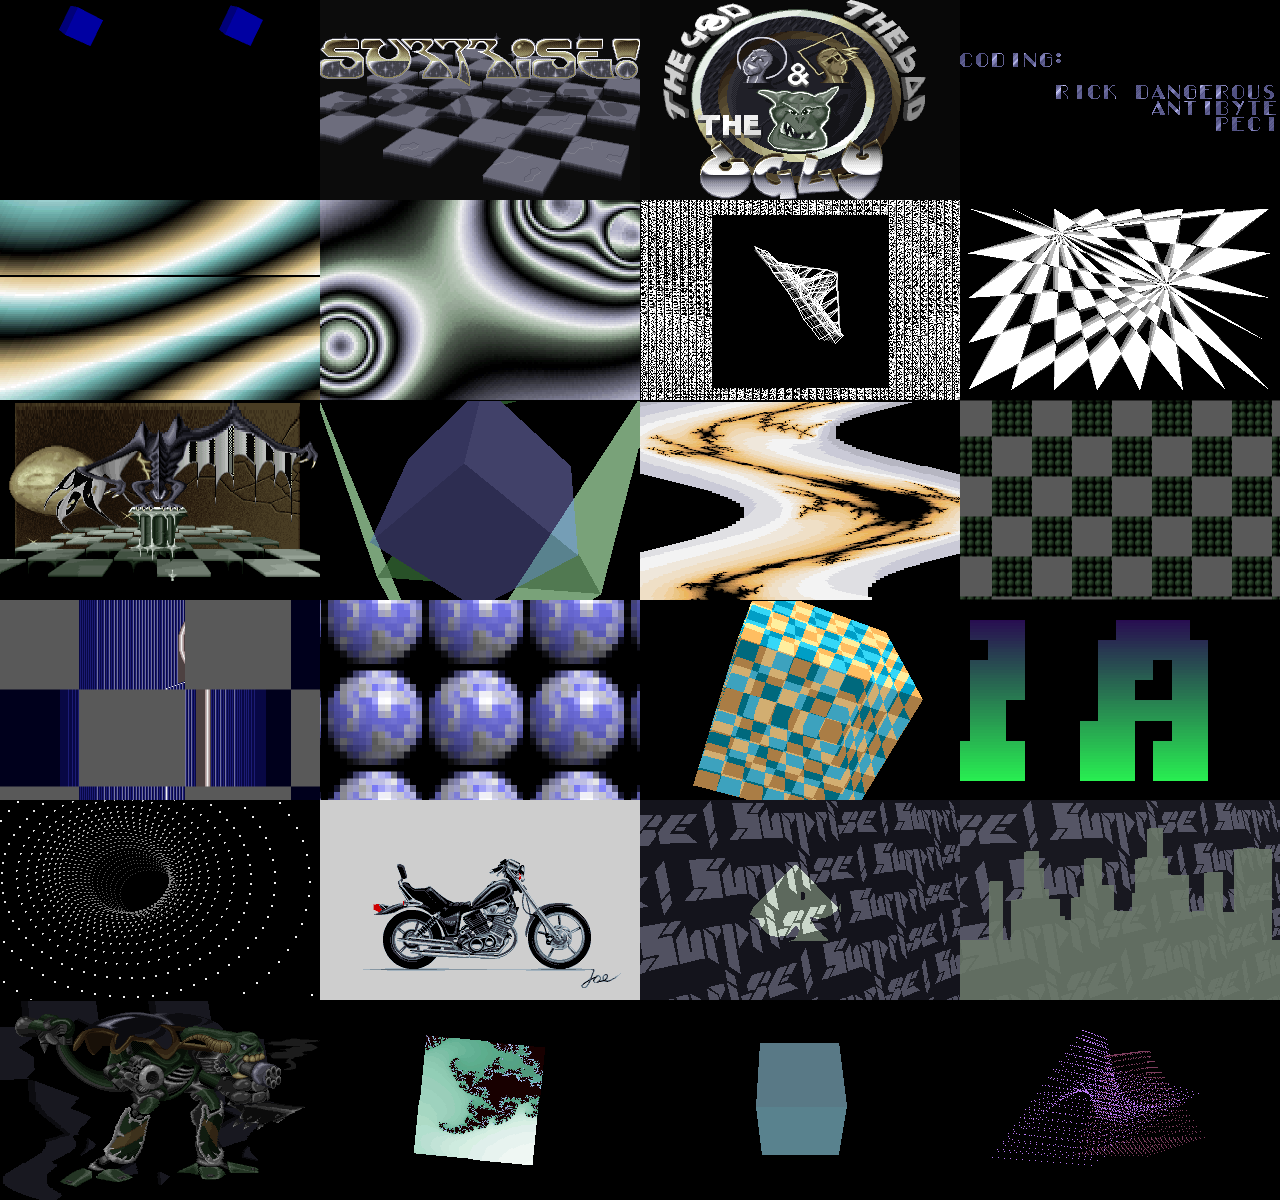
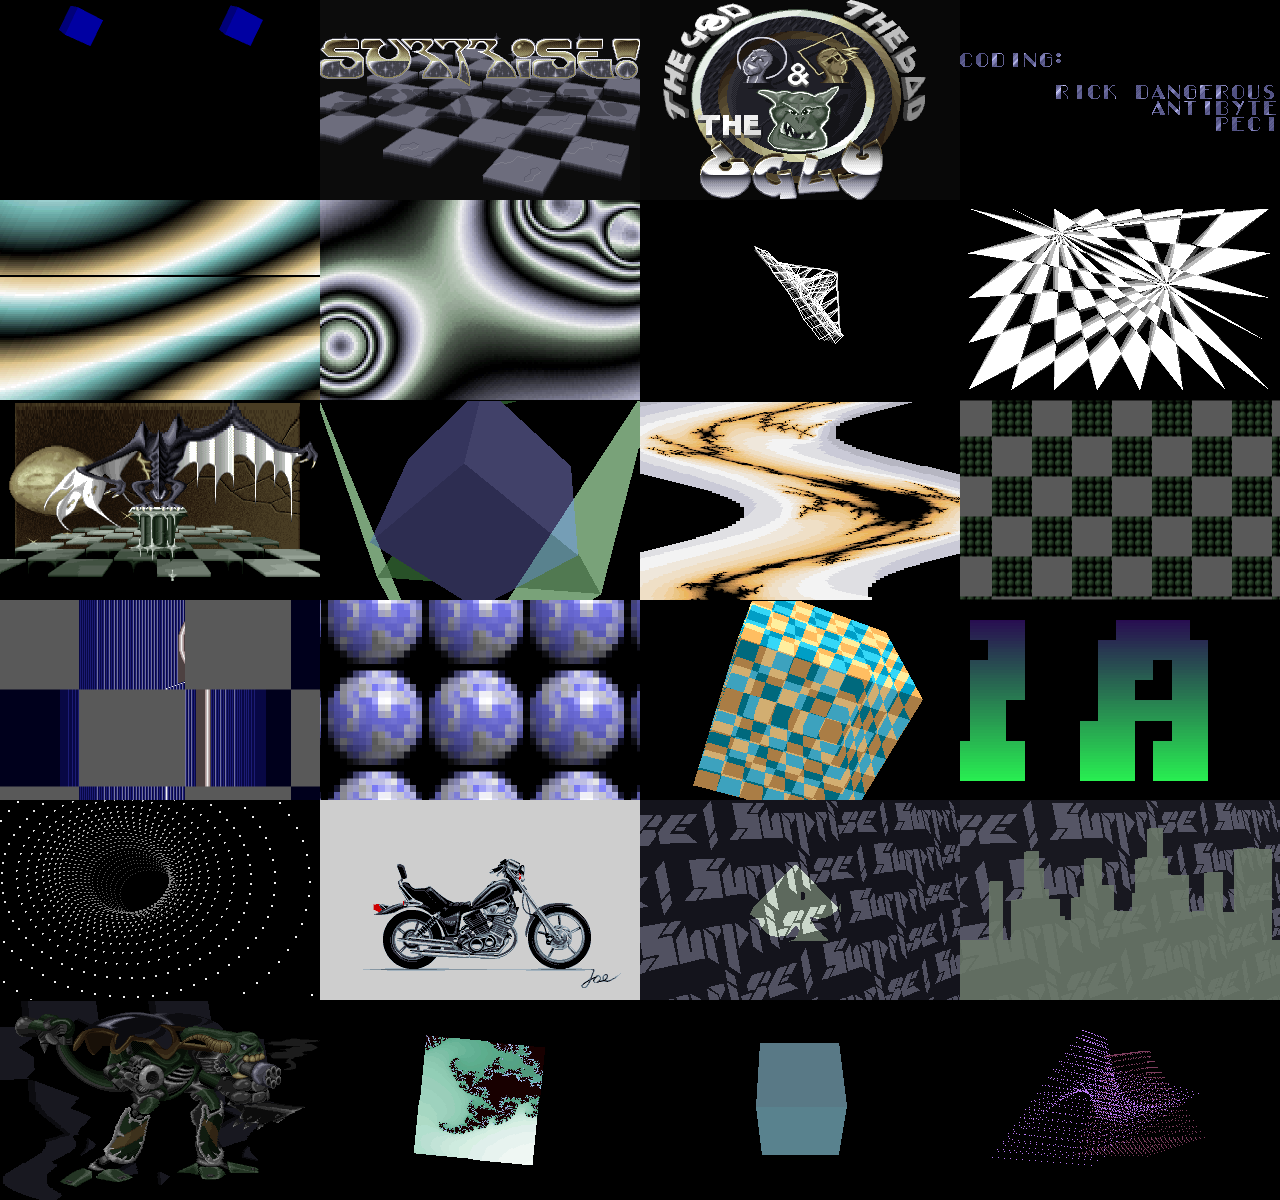
fix: show the morphing lines and the water as a VGA card does, not DOSBox

Changed region(s): [[0.5, 0.1542, 0.75, 0.3392], [0.125, 0.37, 0.25, 0.4008], [0.0312, 0.4008, 0.0938, 0.4317]]

diff --git a/The_Good_the_Bad_and_the_Ugly_by_Surprise_Productions/src/vga.js b/The_Good_the_Bad_and_the_Ugly_by_Surprise_Productions/src/vga.js
@@ -8,7 +8,6 @@
 import { FrameScan } from './screen.js';
 
 /** Graphics mode register (GC 5) bit 6: 256-colour shift; DOSBox's vga.mode is then M_VGA. */
-const SHIFT_256 = 0x40;
 const PLANE_SIZE = 0x10000;
 /** Attribute index bit 5: palette address source (screen on, palette registers locked). */
 const ATTRIBUTE_PAS = 0x20;
@@ -64,41 +63,12 @@ const VGA_DEFAULT_PALETTE = (() => {
 export class Vga {
   constructor() {
     this.planes = [0, 1, 2, 3].map(() => new Uint8Array(PLANE_SIZE));
-    /**
-     * DOSBox's EGA pixel buffer (vga.fastmem). DOSBox draws the 16-colour modes from a copy of video memory that
-     * only its EGA write handler updates, i.e. only writes made while GC 5 bit 6 (256-colour shift) is clear.
-     * Writes made in a 256-colour mode (chain-4 or unchained) change video memory but not that copy, so when the
-     * demo goes back to 16 colours the old 16-colour-era bytes reappear (the morphing lines' background, G3
-     * notes). egaView: the copy's content for bytes not written since the last switch to 16 colours; egaEntry: the
-     * planes at that switch (a byte that differs from it has been written in 16-colour mode since). Both null:
-     * the copy equals the planes.
-     * DOSBox: src/hardware/vga_memory.cpp, VGA_UnchainedEGA_Handler::writeHandler stores to vga.mem.linear AND
-     * expands the byte into vga.fastmem; VGA_UnchainedVGA_Handler / VGA_ChainedVGA_Handler (256 colours) only
-     * store to vga.mem.linear; src/hardware/vga_draw.cpp VGA_SetupDrawing draws M_EGA from vga.fastmem. A real
-     * VGA has no such copy: there the 16-colour screen always shows the planes (the morph background is black).
-     * RULE for parts: in a 16-colour mode write video memory with vga.write() (it updates the copy). A direct
-     * vga.planes write is noticed only when it changes the byte; writing the value the byte already had when the
-     * mode went back to 16 colours leaves the stale copy showing. Code that writes vga.planes directly in a
-     * 16-colour mode must call vga.markEgaWritten(offset, count) for the bytes it wrote.
-     */
-    this.egaView = null;
-    this.egaEntry = null;
-    this.isEgaMemoryMode = true;
-    this.egaRowPlanes = null;
     this.latches = new Uint8Array(4);
     this.sequencer = new Uint8Array(8);
     this.graphics = new Uint8Array(16);
     this.crtc = new Uint8Array(32);
     this.attribute = new Uint8Array(32);
     this.dac = new Uint8Array(768);
-    /**
-     * DOSBox's render palette, what a 256-colour mode shows: a DAC write updates it only while the graphics mode
-     * register has the 256-colour shift (bit 6; DOSBox's M_VGA), and entering that mode keeps entries 16..255 from
-     * the last time (entries 0..15 hold the 16-colour mode's attribute colours). G4: the water (0749:01cc) writes white in the 16-colour mode, then
-     * switches; its colours 60..62, never written in 256 colours since the cyclic plasma, show (1,1,1).
-     */
-    this.renderPalette = new Uint8Array(768);
-    this.latchedIs256Colours = false;
     this.dacMask = 0xff;
     this.sequencerIndex = 0;
     this.graphicsIndex = 0;
@@ -179,8 +149,6 @@ export class Vga {
   latchDisplay() {
     this.latchedStart = this.startAddress;
     this.latchedPanning = this.attribute[0x13];
-    // DOSBox switches its drawing mode (and so which palette it shows) at the start of a frame.
-    this.latchedIs256Colours = this.is256Colours;
   }
 
   // ---- ports ----
@@ -229,9 +197,6 @@ export class Vga {
           this.dac[entry] = this.dacPending[0];
           this.dac[entry + 1] = this.dacPending[1];
           this.dac[entry + 2] = this.dacPending[2];
-          if (this.graphics[5] & SHIFT_256) {
-            this.renderPalette.set(this.dacPending, entry);
-          }
         }
         this.dacWriteIndex = (this.dacWriteIndex + 1) % 768;
         break;
@@ -240,11 +205,7 @@ export class Vga {
         this.graphicsIndex = v & 15;
         break;
       case 0x3cf:
-        if (this.graphicsIndex === 5 && (this.graphics[5] & SHIFT_256) === 0 && (v & SHIFT_256) !== 0) {
-          this.keepAttributeColours();
-        }
         this.graphics[this.graphicsIndex] = v;
-        this.updateMemoryMode();
         break;
       case 0x3d4:
         this.crtcIndex = v & 31;
@@ -308,86 +269,11 @@ export class Vga {
     }
     const mapMask = this.sequencer[2];
     const writeMode = this.graphics[5] & 3;
-    const egaView = this.isEgaMemoryMode ? this.egaView : null;
     for (let p = 0; p < 4; p++) {
       if (mapMask & (1 << p)) {
-        const data = writeMode === 1 ? this.latches[p] : this.writeMode0(p, value);
-        this.planes[p][address] = data;
+        this.planes[p][address] = writeMode === 1 ? this.latches[p] : this.writeMode0(p, value);
       }
     }
-    if (egaView !== null) {
-      // DOSBox expands all four planes of the written byte into its pixel buffer, not just the written ones.
-      for (let p = 0; p < 4; p++) {
-        egaView[p][address] = this.planes[p][address];
-      }
-    }
-  }
-
-  // ---- DOSBox's EGA pixel buffer (see egaView in the constructor) ----
-
-  /** DOSBox's VGA_DetermineMode: a graphics mode with GC 5 bit 6 clear uses the EGA handler (M_EGA). */
-  updateMemoryMode() {
-    const isEga = !this.isTextMode && (this.graphics[5] & 0x40) === 0;
-    if (isEga === this.isEgaMemoryMode) {
-      return;
-    }
-    this.isEgaMemoryMode = isEga;
-    if (isEga) {
-      if (this.egaView === null) {
-        this.egaView = this.planes.map((plane) => plane.slice());
-      }
-      this.egaEntry = this.planes.map((plane) => plane.slice());
-      return;
-    }
-    if (this.egaView === null) {
-      this.egaView = this.planes.map((plane) => plane.slice());
-    } else if (this.egaEntry !== null) {
-      for (let p = 0; p < 4; p++) {
-        const view = this.egaView[p];
-        const entry = this.egaEntry[p];
-        const plane = this.planes[p];
-        for (let i = 0; i < PLANE_SIZE; i++) {
-          if (plane[i] !== entry[i]) {
-            view[i] = plane[i];
-          }
-        }
-      }
-    }
-    this.egaEntry = null;
-  }
-
-  /** Direct vga.planes writes of `count` bytes at `offset` in a 16-colour mode: the EGA copy takes them too. */
-  markEgaWritten(offset, count) {
-    if (this.egaView === null || !this.isEgaMemoryMode) {
-      return;
-    }
-    for (let p = 0; p < 4; p++) {
-      for (let i = 0; i < count; i++) {
-        const o = (offset + i) & 0xffff;
-        this.egaView[p][o] = this.planes[p][o];
-      }
-    }
-  }
-
-  /** The planes as DOSBox's 16-colour renderer sees them, for `count` bytes from `address` (a row). */
-  egaPlanesForRow(address, count) {
-    if (this.egaEntry === null || !this.isEgaMemoryMode) {
-      return this.planes;
-    }
-    if (this.egaRowPlanes === null) {
-      this.egaRowPlanes = [0, 1, 2, 3].map(() => new Uint8Array(PLANE_SIZE));
-    }
-    for (let p = 0; p < 4; p++) {
-      const view = this.egaView[p];
-      const entry = this.egaEntry[p];
-      const plane = this.planes[p];
-      const out = this.egaRowPlanes[p];
-      for (let i = 0; i < count; i++) {
-        const o = (address + i) & 0xffff;
-        out[o] = plane[o] !== entry[o] ? plane[o] : view[o];
-      }
-    }
-    return this.egaRowPlanes;
   }
 
   /** Write mode 0: set/reset, rotate is unused by the demo; the logical function and the bit mask apply. */
@@ -459,19 +345,6 @@ export class Vga {
     return (this.attributeIndex & ATTRIBUTE_PAS) === 0;
   }
 
-  /** Entering a 256-colour mode: render palette entries 0..15 = the DAC colours the attribute controller picked. */
-  keepAttributeColours() {
-    const attribute = this.attribute;
-    const colourSelect = attribute[0x14];
-    const isP54S = (attribute[0x10] & 0x80) !== 0;
-    const high = (colourSelect & 0x0c) << 4;
-    for (let i = 0; i < 16; i++) {
-      const entry = attribute[i] & 0x3f;
-      const index = isP54S ? high | ((colourSelect & 3) << 4) | (entry & 0x0f) : high | entry;
-      this.renderPalette.set(this.dac.subarray(index * 3, index * 3 + 3), i * 3);
-    }
-  }
-
   get is256Colours() {
     return (this.attribute[0x10] & 0x40) !== 0;
   }
@@ -486,13 +359,7 @@ export class Vga {
   /** int 10h ax=13h: 320x200x256, chain-4, video memory cleared, 70 Hz. */
   setMode13() {
     this.isTextMode = false;
-    this.graphics[5] = 0x40;
-    this.updateMemoryMode();
     this.clearPlanes();
-    // DOSBox's INT10_SetVideoMode memsets vga.mem.linear and vga.fastmem: the EGA copy is cleared too (G2: the
-    // blue cubes' last page does not come back in the intro's 16-colour mode, frames 584..760).
-    this.egaView = null;
-    this.egaEntry = null;
     this.sequencer.set([0x03, 0x01, 0x0f, 0x00, 0x0e]);
     this.graphics.set([0, 0, 0, 0, 0, 0x40, 0x05, 0x0f, 0xff]);
     this.crtc.set([0x5f, 0x4f, 0x50, 0x82, 0x54, 0x80, 0xbf, 0x1f, 0x00, 0x41, 0, 0, 0, 0, 0, 0,
@@ -501,7 +368,6 @@ export class Vga {
     // The BIOS loads its default 256-colour palette at the mode set (G7: colour 0 is black after 07a5).
     this.dac.set(VGA_DEFAULT_PALETTE);
     this.dacMask = 0xff;
-    this.renderPalette.set(this.dac);
   }
 
   /** int 10h ax=12h: 640x480x16, planar, video memory cleared. */
@@ -513,16 +379,11 @@ export class Vga {
     this.crtc.set([0x5f, 0x4f, 0x50, 0x82, 0x54, 0x80, 0x0b, 0x3e, 0x00, 0x40, 0, 0, 0, 0, 0, 0,
       0xea, 0x8c, 0xdf, 0x28, 0x00, 0xe7, 0x04, 0xe3, 0xff]);
     this.setAttributeIdentity(0x01);
-    // Cleared through the EGA handler: DOSBox's 16-colour copy is cleared too.
-    this.isEgaMemoryMode = true;
-    this.egaView = null;
-    this.egaEntry = null;
   }
 
   /** int 10h ax=3: the 80x25 text screen, cleared, with the BIOS's 16-colour palette. */
   setMode3() {
     this.isTextMode = true;
-    this.updateMemoryMode();
     this.sequencer.set([0x03, 0x00, 0x03, 0x00, 0x02]);
     this.graphics.set([0, 0, 0, 0, 0, 0x10, 0x0e, 0x00, 0xff]);
     this.crtc.set([0x5f, 0x4f, 0x50, 0x82, 0x55, 0x81, 0xbf, 0x1f, 0x00, 0x4f, 0x0d, 0x0e, 0, 0, 0, 0,

diff --git a/The_Good_the_Bad_and_the_Ugly_by_Surprise_Productions/test/original.test.js b/The_Good_the_Bad_and_the_Ugly_by_Surprise_Productions/test/original.test.js
@@ -4,11 +4,11 @@ import assert from 'node:assert/strict';
 import { newDemo, runToFrame, screenRgb, recordedFrame, countDifferentPixels } from './helpers.js';
 
 /**
- * One recorded frame in each effect, in order: the blue cubes, intro, credits, plasma, cyclic plasma, morphing
- * lines, chess, water, glentz, wobbler, chess zoomer, spheres, glentz chess cube, greetings, dot tunnel,
+ * One recorded frame in each effect, in order: the blue cubes, intro, credits, plasma, cyclic plasma, chess, glentz,
+ * wobbler, chess zoomer, spheres, glentz chess cube, greetings, dot tunnel,
  * transforming objects, contour city, picture zoomer, fractal zoomer, glentz cubes, 3200 dots.
  */
-const RECORDED_FRAMES = [300, 1500, 3000, 4405, 6000, 7200, 8300, 9500, 10500, 11300, 13200, 15500, 17000, 18300,
+const RECORDED_FRAMES = [300, 1500, 3000, 4405, 6000, 8300, 10500, 11300, 13200, 15500, 17000, 18300,
   19700, 21300, 22500, 23800, 25400, 27500, 30300];
 /**
  * The recording's first frame in text mode, after the music fade: the 'ending' screen. DOSBox shows a mode
@@ -32,4 +32,30 @@ test('the demo runs to the end screen on the recorded frame', () => {
   demo.step();
   assert.equal(demo.state.vga.isTextMode, true);
   assert.equal(demo.state.isOver, true);
+});
+
+/** Where DOSBox shows something a VGA card does not, the port follows the card (README, "Like a VGA card"). */
+const VGA_NOT_DOSBOX = [
+  // The morphing lines: DOSBox shows stale video memory around the box; a VGA shows the cleared, black memory.
+  { frame: 7200, portColour: [0, 0, 0] },
+  // The water: DOSBox keeps old values for colours 60..62 written in a 16-colour mode; a VGA shows them white.
+  { frame: 9500, portColour: [255, 255, 255] },
+];
+
+test('where DOSBox differs from a VGA card, the port shows what the card shows', () => {
+  const demo = newDemo();
+  let retraces = 0;
+  for (const { frame, portColour } of VGA_NOT_DOSBOX) {
+    retraces = runToFrame(demo, frame, retraces);
+    const port = screenRgb(demo);
+    const recorded = recordedFrame(frame);
+    let differing = 0;
+    for (let i = 0; i < port.length; i += 3) {
+      if (port[i] !== recorded[i] || port[i + 1] !== recorded[i + 1] || port[i + 2] !== recorded[i + 2]) {
+        differing++;
+        assert.deepEqual([port[i], port[i + 1], port[i + 2]], portColour, `at frame ${frame}`);
+      }
+    }
+    assert.ok(differing > 0, `frame ${frame} should differ from DOSBox`);
+  }
 });

diff --git a/The_Good_the_Bad_and_the_Ugly_by_Surprise_Productions/src/parts/morphingLines.js b/The_Good_the_Bad_and_the_Ugly_by_Surprise_Productions/src/parts/morphingLines.js
@@ -7,9 +7,9 @@
 // every other frame, makes the newest plane white and the 3 older ones grey: a motion trail). Pages at 4000h and
 // 8000h are flipped every frame. 16-colour mode 0299:01cc, set by the main script.
 //
-// Outside the black box the recording shows the plasma 0cf9's picture as bitplanes: DOSBox draws 16-colour modes
-// from a copy of video memory that 256-colour writes (the cyclic plasma, the main script's clear) never update
-// (vga.js, egaView). On a real VGA it would be black.
+// Outside the black box the screen is black, as on a VGA card. The DOSBox recording shows the plasma 0cf9's picture
+// there instead: DOSBox draws 16-colour modes from a copy of video memory that 256-colour writes (the cyclic plasma,
+// the main script's clear) never update. The port follows the hardware.
 import { linear, waitTick } from '../machine.js';
 import { setP54S } from '../library.js';
 import { drawLine } from './morphingLinesDraw.js';

diff --git a/The_Good_the_Bad_and_the_Ugly_by_Surprise_Productions/src/screen.js b/The_Good_the_Bad_and_the_Ugly_by_Surprise_Productions/src/screen.js
@@ -17,7 +17,7 @@ export function dacTo8(v) {
 
 function paletteColours(vga) {
   const colours = new Uint32Array(256);
-  const dac = vga.is256Colours && vga.latchedIs256Colours ? vga.renderPalette : vga.dac;
+  const dac = vga.dac;
   for (let i = 0; i < 256; i++) {
     const index = (i & vga.dacMask) * 3;
     colours[i] = 0xff000000 | (dacTo8(dac[index + 2]) << 16) | (dacTo8(dac[index + 1]) << 8) | dacTo8(dac[index]);
@@ -125,7 +125,7 @@ export class FrameScan {
   /** 16 colours: attribute palette, then the colour select register (0x14) and P54S (mode control bit 7). */
   drawRow16(row) {
     const { vga, colours, pixels, width } = this;
-    const [p0, p1, p2, p3] = vga.egaPlanesForRow(this.address, (width >> 3) + 1);
+    const [p0, p1, p2, p3] = vga.planes;
     const attribute = vga.attribute;
     const colourSelect = attribute[0x14];
     const isP54S = (attribute[0x10] & 0x80) !== 0;

diff --git a/The_Good_the_Bad_and_the_Ugly_by_Surprise_Productions/src/parts/dotTunnel.js b/The_Good_the_Bad_and_the_Ugly_by_Surprise_Productions/src/parts/dotTunnel.js
@@ -188,16 +188,11 @@ function writeMode3Byte(vga, offset, data, isOr) {
   const mask = value & vga.graphics[8];
   const setReset = vga.graphics[0];
   const mapMask = vga.sequencer[2];
-  // DOSBox's EGA write handler also updates its pixel copy (vga.egaView) in a 16-colour mode.
-  const egaView = vga.isEgaMemoryMode ? vga.egaView : null;
   for (let p = 0; p < 4; p++) {
     if (mapMask & (1 << p)) {
       const colour = setReset & (1 << p) ? 0xff : 0;
       const data = (colour & mask) | (vga.latches[p] & ~mask & 0xff);
       planes[p][offset] = data;
-      if (egaView !== null) {
-        egaView[p][offset] = data;
-      }
     }
   }
 }

diff --git a/The_Good_the_Bad_and_the_Ugly_by_Surprise_Productions/README.md b/The_Good_the_Bad_and_the_Ugly_by_Surprise_Productions/README.md
@@ -30,7 +30,7 @@ python3 -m http.server 8000
 Add `#t=200` to the URL to start 200 s in, `#hud` to show the clock, `#nosound` to run on the wall clock without the soundtrack.
 
 ```bash
-npm test                                   # 6 tests
+npm test                                   # 7 tests
 node tools/frames.mjs /tmp/gbu 9500 17000  # render frames (recording frame numbers) to PNG, no browser
 node tools/shot.mjs /tmp/gbu 135 242       # the same at soundtrack seconds
 node tools/poster.mjs                      # renders docs/poster.png
@@ -97,12 +97,12 @@ Times are from the switch to graphics after the start key, in seconds of the rec
 
 **A VGA at register level, with a beam.** `src/vga.js` holds the four planes, the latches, write modes, map mask, bit mask, set/reset, and the sequencer, graphics, CRTC, attribute and DAC registers; the effects' `out` instructions become `vga.out8`/`vga.out16` with the same ports and values. The screen is worked out from the registers (`src/screen.js`): start address, offset, line compare, maximum scan line, pel panning, chain-4 or planar, the attribute palette, Color Select and P54S, the DAC, screen off. Several effects change the picture while it is being drawn: the plasma and the water set the CRTC offset on every line, the chess zoomer sets Color Select on every line and draws its bars into the line being shown, the greetings change the offset and a colour per line. For those the effect counts its horizontal-retrace waits and the VGA draws the lines the beam has passed before each change. The rule for where a change lands was measured in the recording.
 
-**Like the recording.** The reference is DOSBox, and in four places the port follows DOSBox where a real VGA would differ:
+**Like a VGA card, not like DOSBox.** The reference recording is DOSBox, and in two places DOSBox shows something a VGA card does not. There the port follows the card:
 
-- DOSBox draws the 16-colour modes from its own copy of video memory, which writes in a 256-colour mode do not reach. The morphing lines' background is the plasma's picture seen through that copy; on a VGA card it would be black.
-- In a 256-colour mode, DOSBox's palette only takes DAC writes made while a 256-colour mode is set: the water's last colours are those the cyclic plasma left.
-- DOSBox applies a change of mode or line height one frame late, and a DAC entry when its blue component is written.
-- The plasma and the parallax bars run without waiting for the retrace, so their tears depend on how long each music tick took in DOSBox. The port models the scanline cost; the plasma uses the tick lengths measured in the recording.
+- DOSBox draws the 16-colour modes from its own copy of video memory, which writes made in a 256-colour mode do not reach. Around the morphing lines' box DOSBox shows the plasma's old picture as noise; the demo cleared that memory, and on a VGA card it is black.
+- DOSBox's palette for 256-colour modes ignores colours written while the card is in a 16-colour mode. The chess effect sets colours 60 to 62 to white that way, and the water uses them for the highlights of the dragon's wings: white on a VGA card, almost black in DOSBox.
+
+Elsewhere the port follows DOSBox where it can't know better: a change of mode or line height shows one frame after it is made, and the plasma and the parallax bars, which run without waiting for the retrace, tear where they did in the recording. The port models their scanline cost; the plasma uses the tick lengths measured in the recording.
 
 **Music as a clock.** The soundtrack is the recording's audio, and the page runs the demo up to the audio's `currentTime`. Before the GUS starts there is no music; the recording's first tick is 8.3 s in.
 
@@ -114,7 +114,7 @@ Times are from the switch to graphics after the start key, in seconds of the rec
 
 Verified:
 
-- **Against the original running, every frame:** the port was rendered for each of the recording's 32744 frames and compared byte for byte. 30506 are identical. `test/original.test.js` checks one frame in each effect in a single run of the demo.
+- **Against the original running, every frame:** the port was rendered for each of the recording's 32744 frames and compared byte for byte. 27895 are identical, and 2615 more differ on purpose, in the two effects where the port shows what a VGA card shows (above). `test/original.test.js` checks one frame in each effect in a single run of the demo.
 
   | Effect | Identical frames |
   |---|---|
@@ -123,10 +123,10 @@ Verified:
   | Credits | 1394 of 1394 |
   | Plasma | 636 of 1457 |
   | Cyclic plasma | 1336 of 1337 |
-  | Morphing line figures | 1203 of 1203 |
+  | Morphing line figures | 0 of 1203 (black background, as on a VGA card) |
   | Chess effect | 970 of 984 |
-  | Water | 1419 of 1421 |
-  | Glentz vector | 909 of 911 |
+  | Water | 9 of 1421 (white wing highlights, as on a VGA card) |
+  | Glentz vector | 911 of 911 |
   | Picture wobbler | 1182 of 1191 |
   | Chess zoomer, parallax bars, spheres | 3381 of 4015 |
   | Glentz chess cube | 1452 of 1452 |
